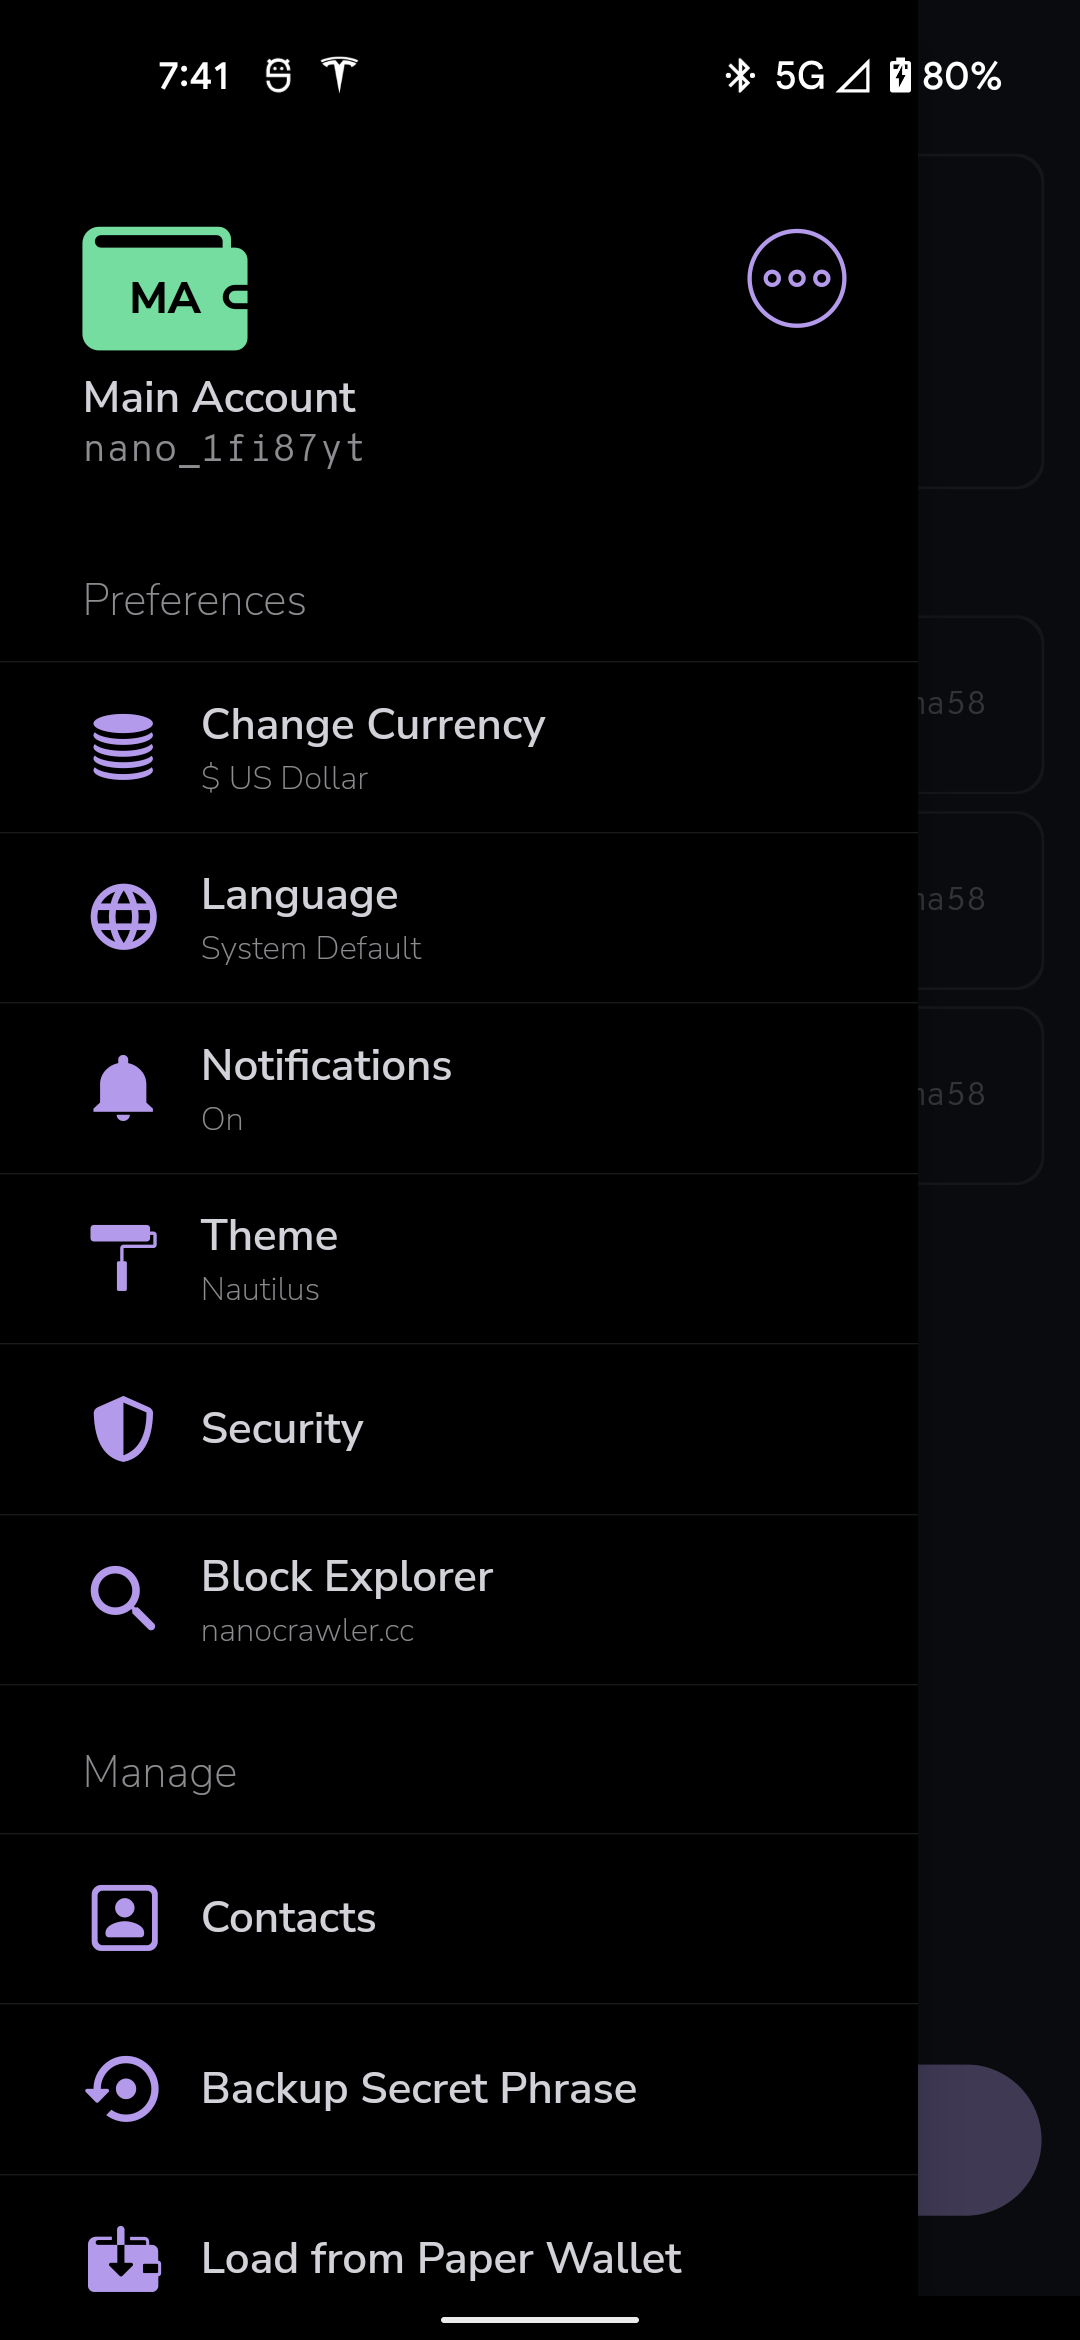
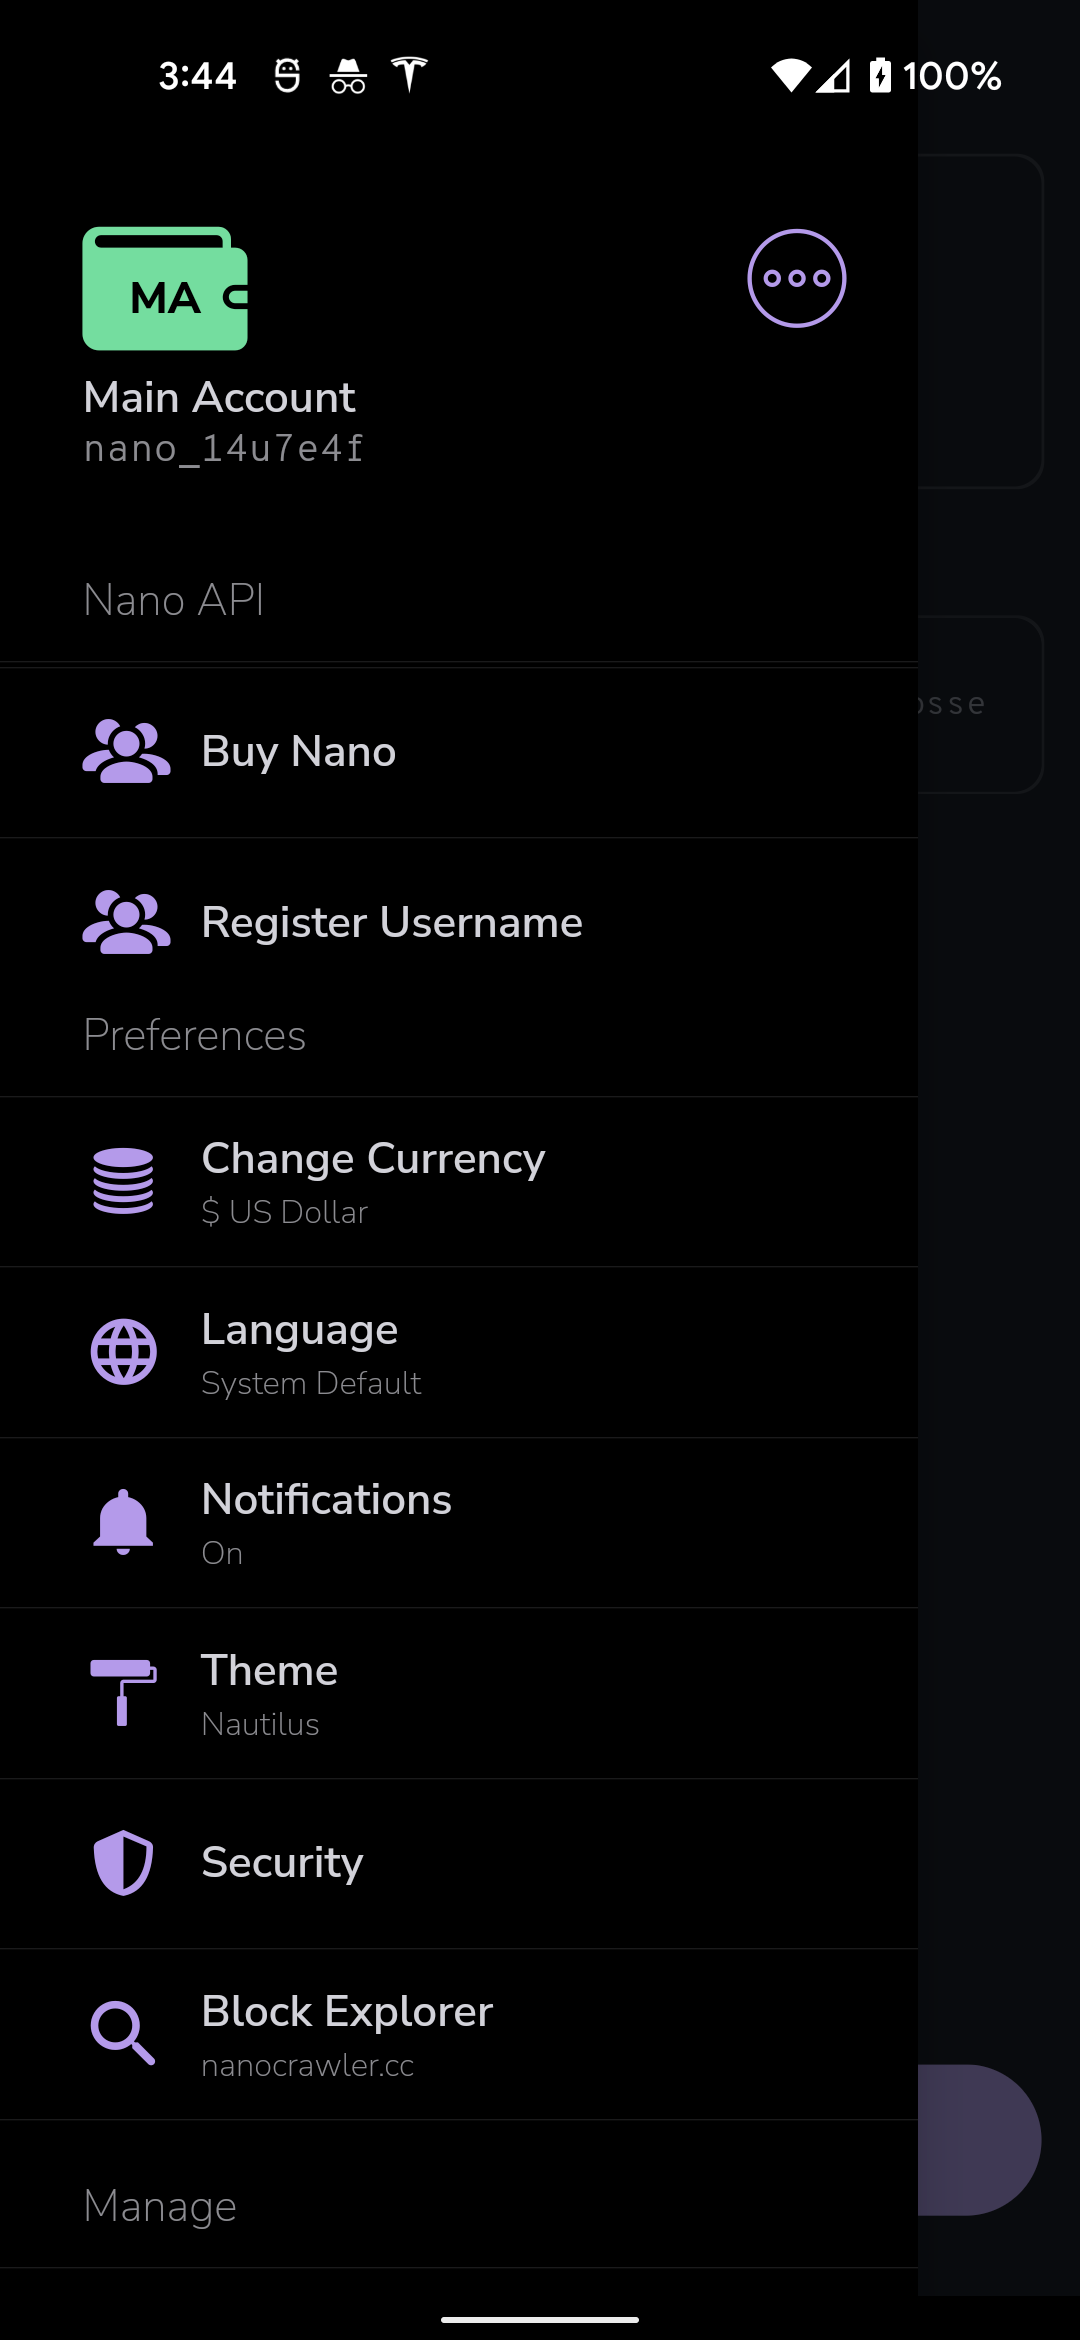
webview work, show usernames in tx history, update localized strings

diff --git a/lib/ui/home_page.dart b/lib/ui/home_page.dart
@@ -22,6 +22,7 @@ import 'package:nautilus_wallet_flutter/service_locator.dart';
 import 'package:nautilus_wallet_flutter/model/address.dart';
 import 'package:nautilus_wallet_flutter/model/list_model.dart';
 import 'package:nautilus_wallet_flutter/model/db/contact.dart';
+import 'package:nautilus_wallet_flutter/model/db/user.dart';
 import 'package:nautilus_wallet_flutter/model/db/appdb.dart';
 import 'package:nautilus_wallet_flutter/network/model/block_types.dart';
 import 'package:nautilus_wallet_flutter/network/model/response/account_history_response_item.dart';
@@ -81,6 +82,7 @@ class _AppHomePageState extends State<AppHomePage> with WidgetsBindingObserver, 
 
   // List of contacts (Store it so we only have to query the DB once for transaction cards)
   List<Contact> _contacts = List();
+  List<User> _users = List();
 
   // Price conversion state (BTC, NANO, NONE)
   PriceConversion _priceConversion;
@@ -195,7 +197,8 @@ class _AppHomePageState extends State<AppHomePage> with WidgetsBindingObserver, 
       settingsIconMarginTop = 5;
     }
     _addSampleContact();
-    _updateContacts();
+    // _updateContacts();
+    _updateUsers();
     // Setup placeholder animation and start
     _animationDisposed = false;
     _placeholderCardAnimationController = new AnimationController(
@@ -279,6 +282,14 @@ class _AppHomePageState extends State<AppHomePage> with WidgetsBindingObserver, 
     sl.get<DBHelper>().getContacts().then((contacts) {
       setState(() {
         _contacts = contacts;
+      });
+    });
+  }
+
+  void _updateUsers() {
+    sl.get<DBHelper>().getUsers().then((users) {
+      setState(() {
+        _users = users;
       });
     });
   }
@@ -464,11 +475,25 @@ class _AppHomePageState extends State<AppHomePage> with WidgetsBindingObserver, 
     String displayName = smallScreen(context)
         ? _historyListMap[StateContainer.of(context).wallet.address][localIndex].getShorterString()
         : _historyListMap[StateContainer.of(context).wallet.address][localIndex].getShortString();
-    _contacts.forEach((contact) {
+    bool matched = false;
+    // _contacts.forEach((contact) {
+    for (Contact contact in _contacts) {
       if (contact.address == _historyListMap[StateContainer.of(context).wallet.address][localIndex].account.replaceAll("xrb_", "nano_")) {
         displayName = contact.name;
+        matched = true;
+        break;
       }
-    });
+    }
+    // if still not matched to a contact, check if it's a username
+    if (!matched) {
+      // for user in users:
+      for (User user in _users) {
+        if (user.address == _historyListMap[StateContainer.of(context).wallet.address][localIndex].account.replaceAll("xrb_", "nano_")) {
+          displayName = "@" + user.username;
+          break;
+        }
+      }
+    }
 
     return _buildTransactionCard(_historyListMap[StateContainer.of(context).wallet.address][localIndex], animation, displayName, context);
   }

diff --git a/lib/ui/settings/settings_drawer.dart b/lib/ui/settings/settings_drawer.dart
@@ -1154,6 +1154,34 @@ class _SettingsSheetState extends State<SettingsSheet> with TickerProviderStateM
                         : null,
                     Container(
                       margin: EdgeInsetsDirectional.only(start: 30.0, bottom: 10),
+                      child: Text(AppLocalization.of(context).nanoAPI,
+                          style: TextStyle(fontSize: 16.0, fontWeight: FontWeight.w100, color: StateContainer.of(context).curTheme.text60)),
+                    ),
+                    Divider(
+                      height: 2,
+                      color: StateContainer.of(context).curTheme.text15,
+                    ),
+                    Divider(
+                      height: 2,
+                      color: StateContainer.of(context).curTheme.text15,
+                    ),
+                    AppSettings.buildSettingsListItemSingleLine(context, AppLocalization.of(context).buyNano, AppIcons.changerepresentative, onPressed: () {
+                      Navigator.of(context).push(MaterialPageRoute(builder: (BuildContext context) {
+                        return UIUtil.showWebview(context, /*AppLocalization.of(context).privacyUrl*/ "https://nano.to");
+                      }));
+                    }),
+                    Divider(
+                      height: 2,
+                      color: StateContainer.of(context).curTheme.text15,
+                    ),
+                    AppSettings.buildSettingsListItemSingleLine(context, AppLocalization.of(context).registerUsername, AppIcons.changerepresentative,
+                        onPressed: () {
+                      Navigator.of(context).push(MaterialPageRoute(builder: (BuildContext context) {
+                        return UIUtil.showWebview(context, /*AppLocalization.of(context).privacyUrl*/ "https://nano.to");
+                      }));
+                    }),
+                    Container(
+                      margin: EdgeInsetsDirectional.only(start: 30.0, bottom: 10),
                       child: Text(AppLocalization.of(context).preferences,
                           style: TextStyle(fontSize: 16.0, fontWeight: FontWeight.w100, color: StateContainer.of(context).curTheme.text60)),
                     ),

diff --git a/lib/localization.dart b/lib/localization.dart
@@ -364,6 +364,14 @@ class AppLocalization {
     return Intl.message("Change", desc: 'change_representative_change', name: 'changeRepButton');
   }
 
+  String get buyNano {
+    return Intl.message("Buy Nano", desc: 'buy_nano', name: 'buyNano');
+  }
+
+  String get registerUsername {
+    return Intl.message("Register Username", desc: 'register_username', name: 'registerUsername');
+  }
+
   String get changeRepAuthenticate {
     return Intl.message("Change Representative", desc: 'settings_change_rep', name: 'changeRepAuthenticate');
   }
@@ -501,6 +509,10 @@ class AppLocalization {
 
   String get preferences {
     return Intl.message("Preferences", desc: 'settings_preferences_header', name: 'preferences');
+  }
+
+  String get nanoAPI {
+    return Intl.message("Nano API", desc: 'nano_api', name: 'nanoAPI');
   }
 
   String get manage {

diff --git a/README.md b/README.md
@@ -48,11 +48,16 @@ This project is in development by the team @ [Nano.to](https://nano.to/developme
 - [x] use json data on the send screen
 - [ ] cache json from /reps and /known
 - [ ] set random representative for new accounts using nano.to/reps
+- [x] change addresses to usernames in the history
+- [x] add buy nano button to the drawer
+- [x] add register username button to the drawer
+- [x] add web views for the buttons
 
 
 <img src="/screenshots/flutter_01.png" width="200">
 <img src="/screenshots/flutter_02.png" width="200">
 <img src="/screenshots/flutter_03.png" width="200">
+<img src="/screenshots/flutter_04.png" width="200">
 
 ### Nautilus - Beta 0.1 (Q1 2022)
 
@@ -78,8 +83,8 @@ This project is in development by the team @ [Nano.to](https://nano.to/developme
 
 ### Nautilus - Stable v2 (Q4 2024)
 
-- Cash out NANO to bank via ACH, WIRE etc. 
-- Optional, Metal, NANO debit card (Nano.to/Card) 
+- Cash out NANO to bank via ACH, WIRE etc. **lots of legal work**
+- Optional, Metal, NANO debit card (Nano.to/Card) **lots of legal work**
 
 ---
 
